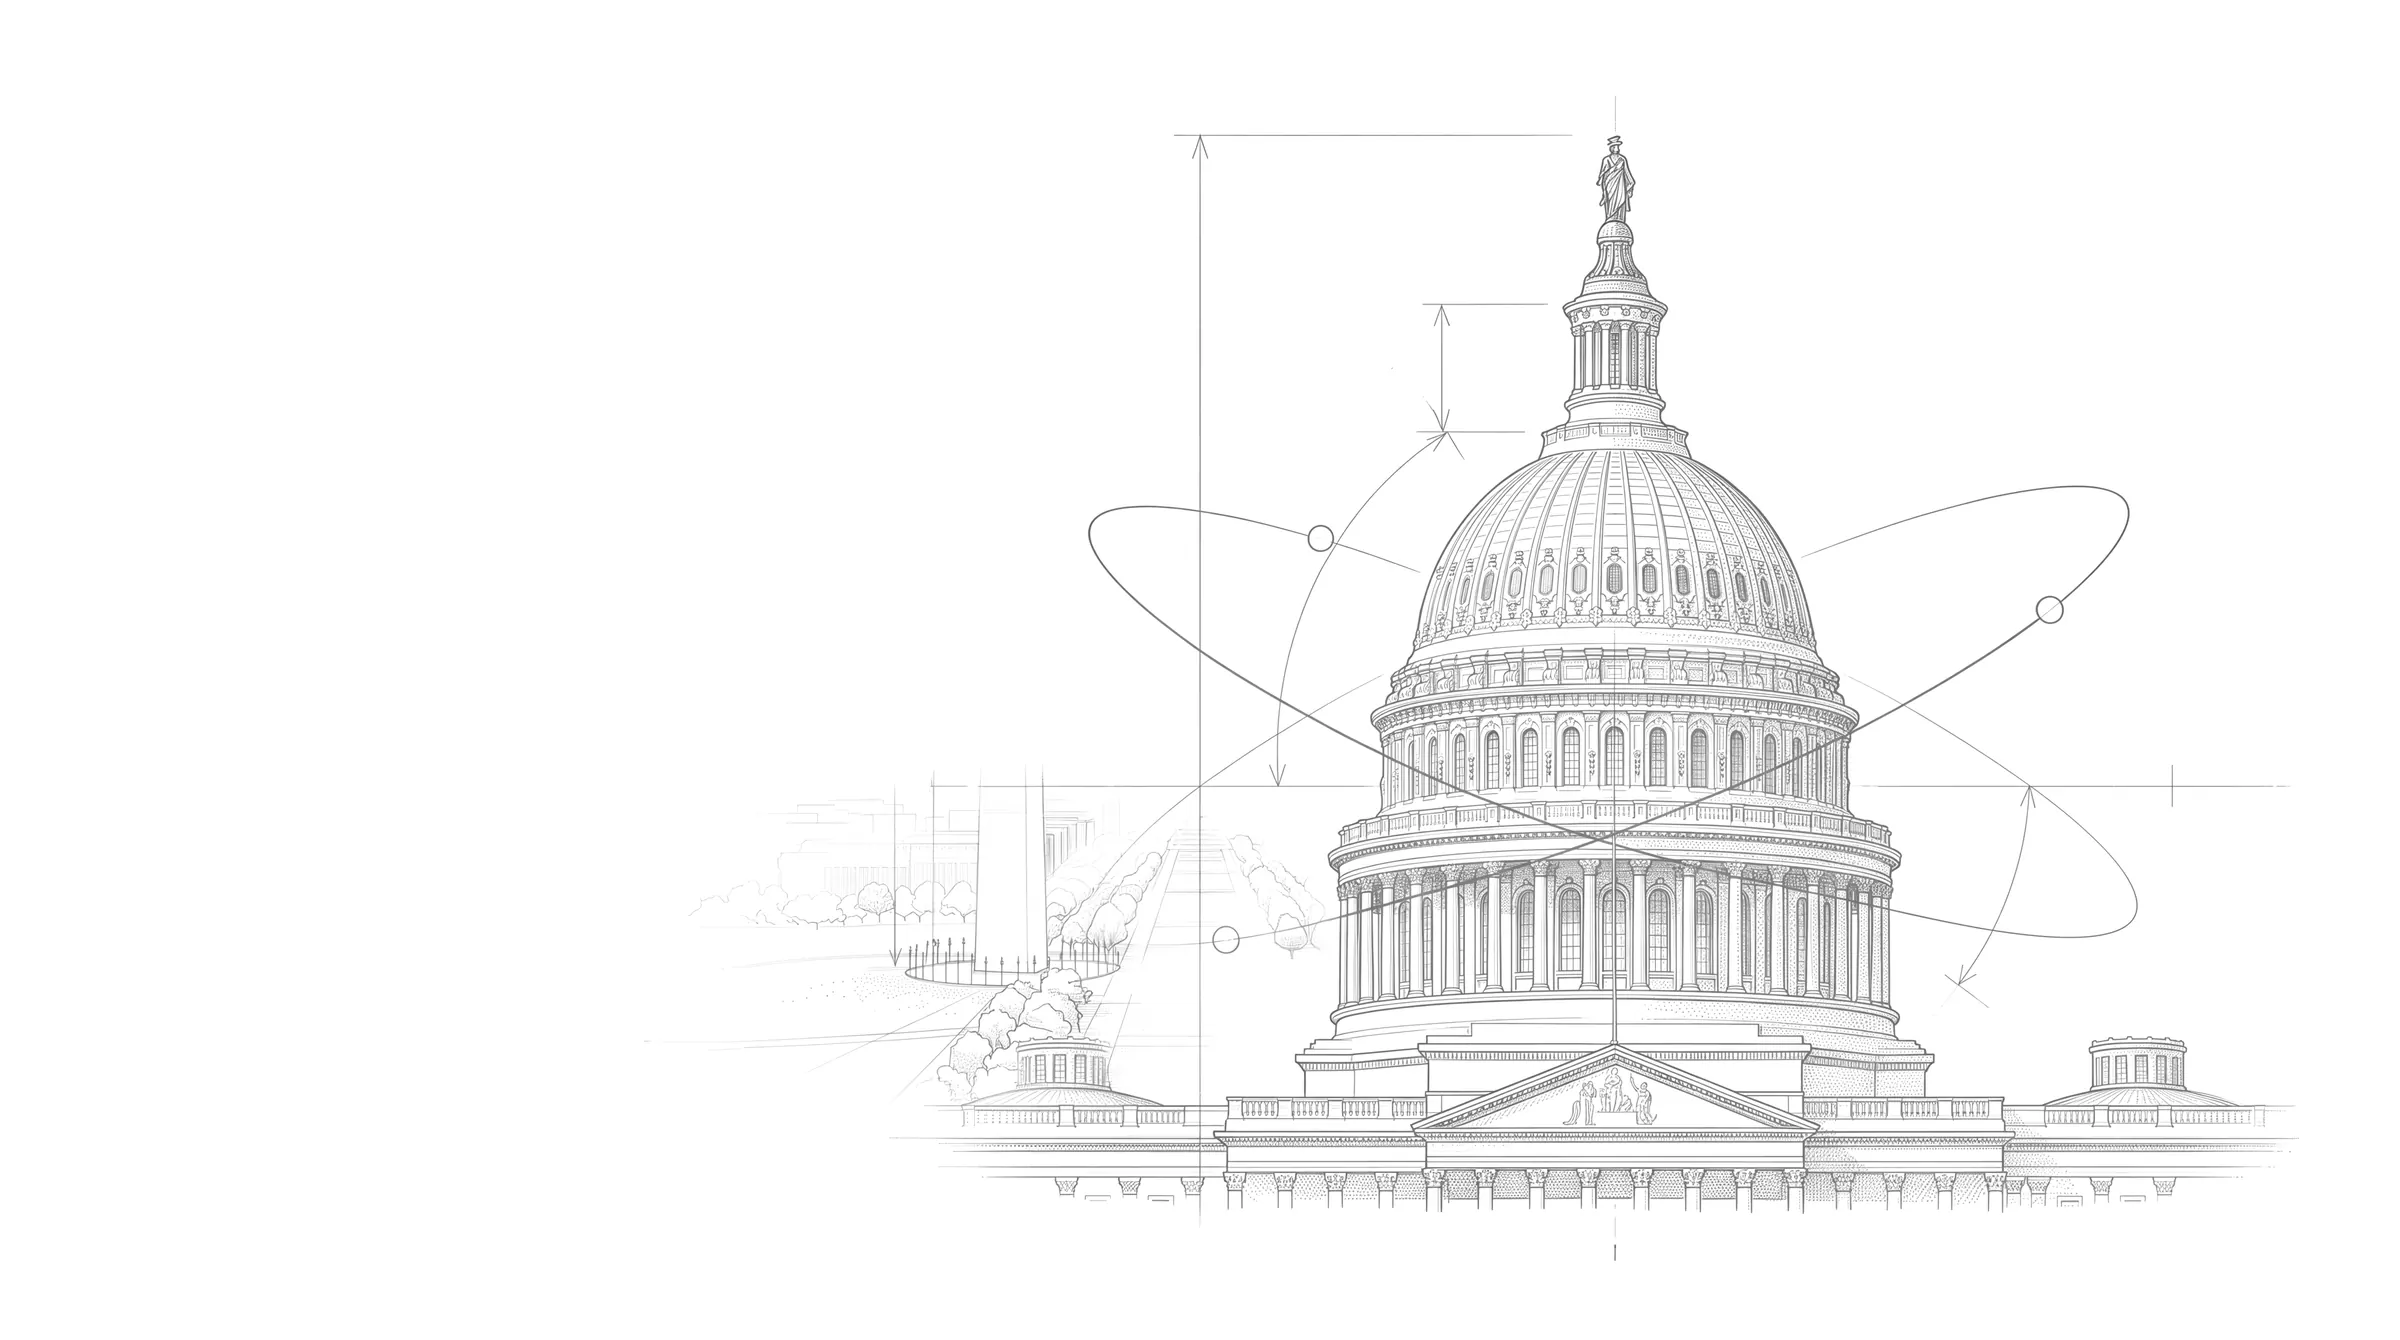
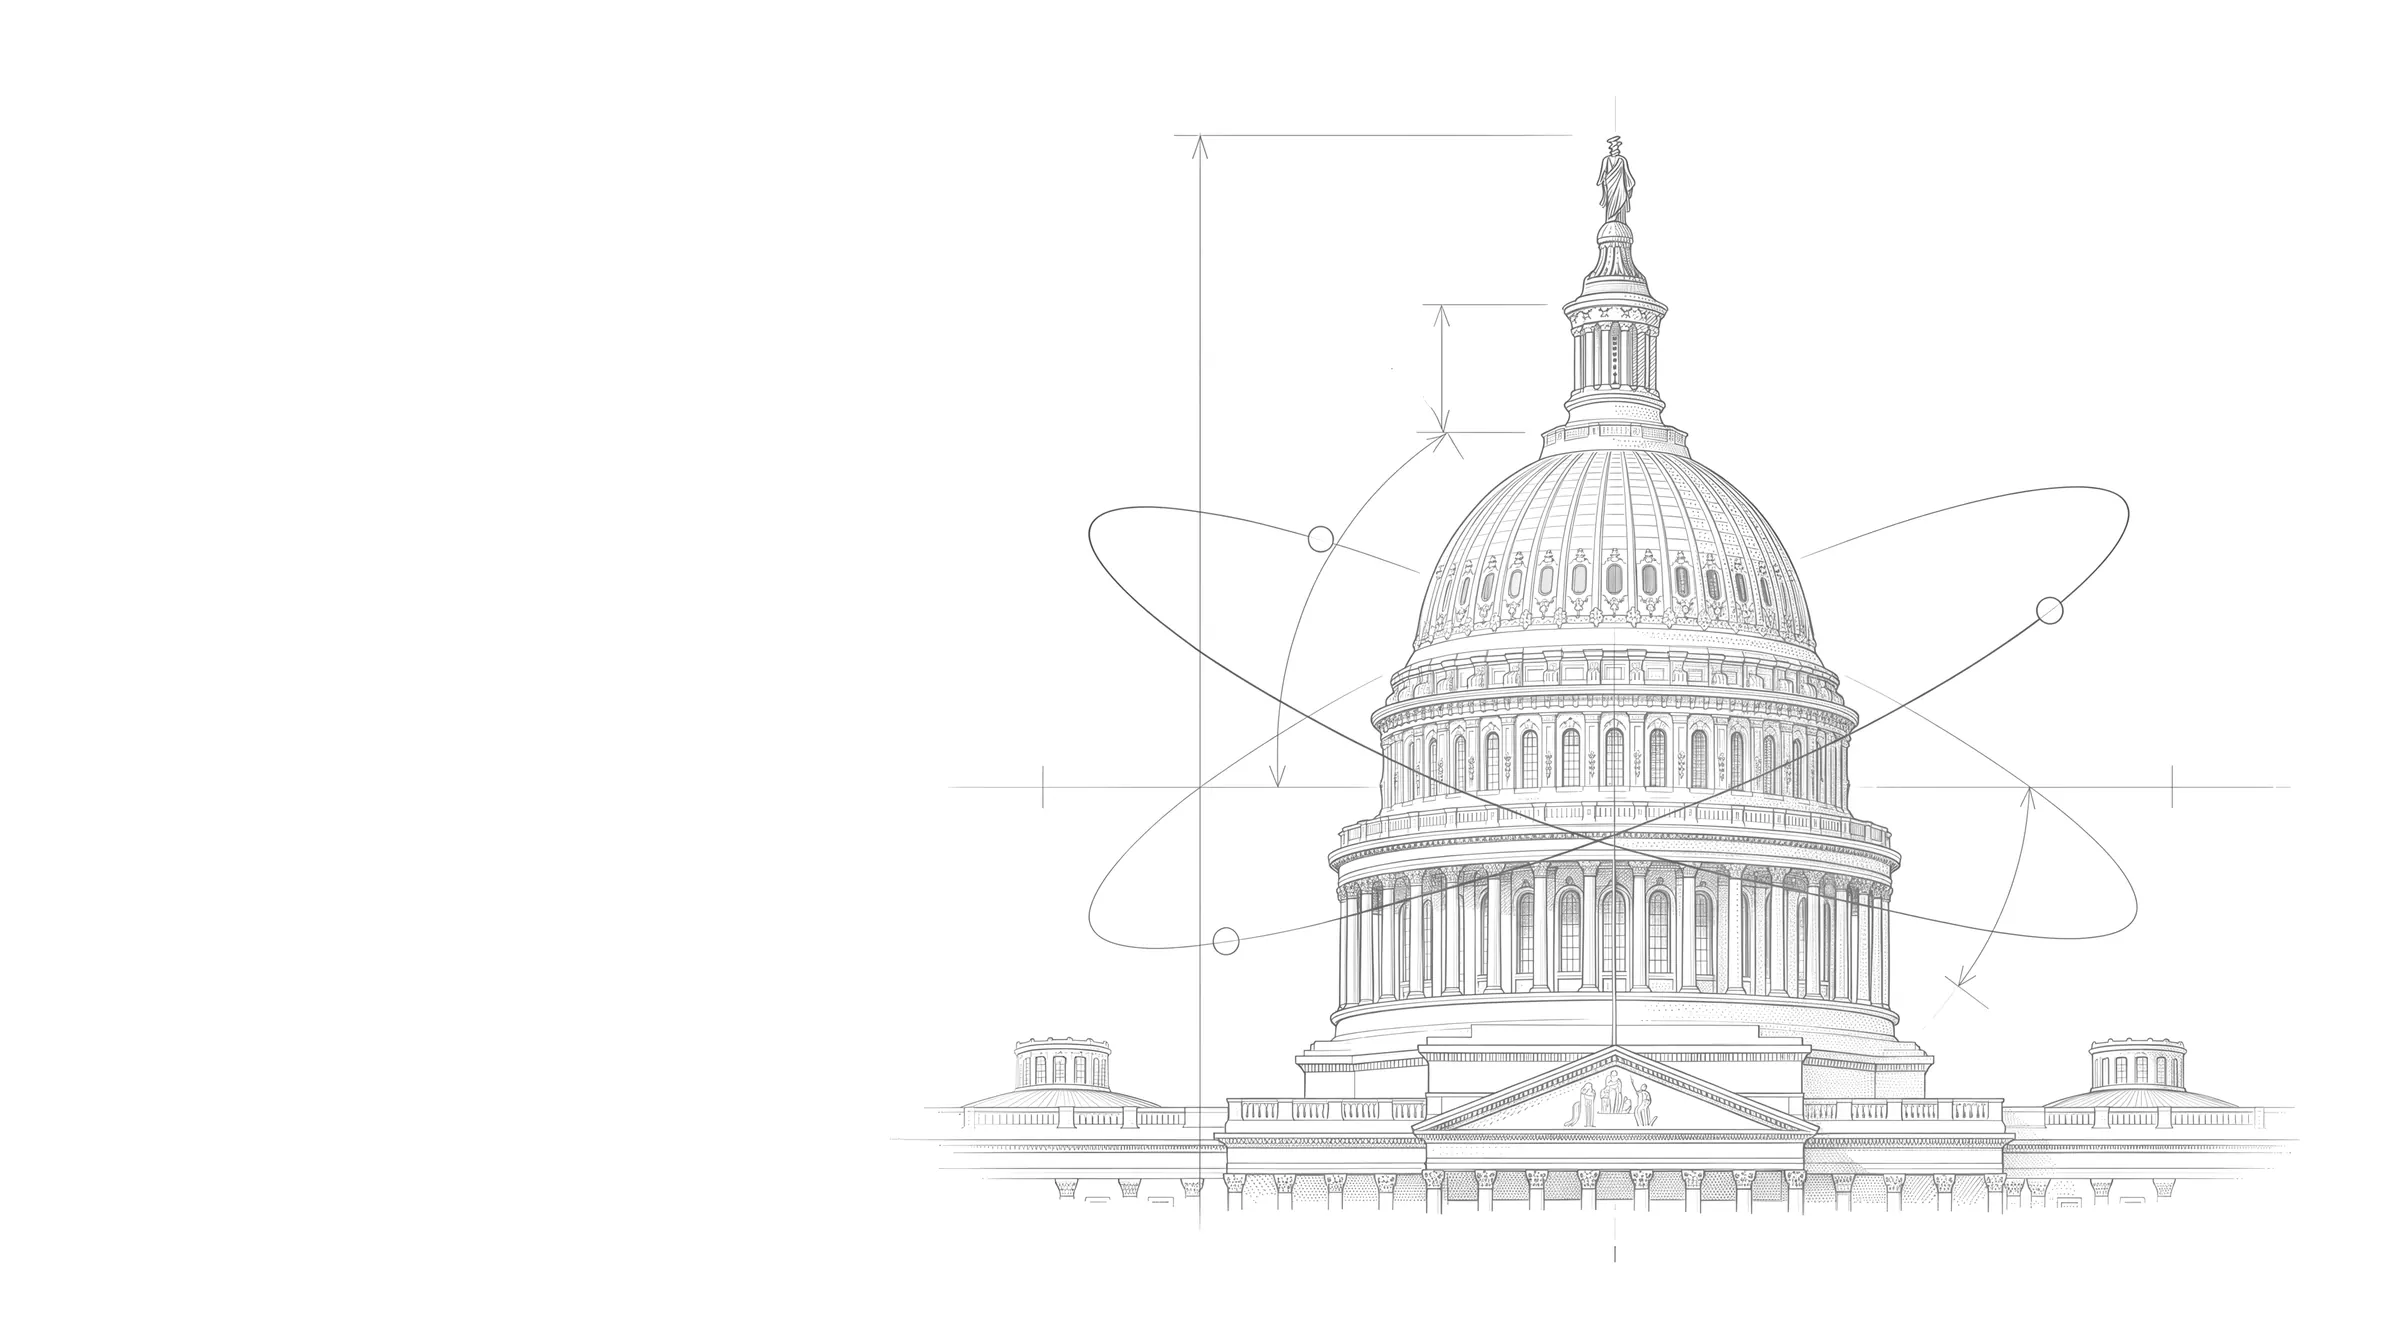
about-beta: Capitol-only hero, mission aligned to the dome, new story drawings
- Hero drawing edited (Higgsfield) to remove the half-drawn Monument and
  Mall sketch; the Capitol, its orbits and measurement lines are
  unchanged and still register with the draw-order map.
- Desktop: the mission block's top sits level with the statue's tip.
- Our Story: three new pen-and-ink drawings that match each chapter
  (students in conversation with the Capitol in the window; a shared
  worktable before the D.C. campuses; reading The Catalyst on the
  Mall), paper tone baked in so they sit seamlessly on the page.

Changed region(s): [[0.3438, 0.1224, 0.9375, 0.9179], [0.8438, 0.5813, 0.875, 0.6119], [0.4375, 0.6119, 0.4688, 0.6425]]

diff --git a/about-beta.html b/about-beta.html
@@ -26,8 +26,8 @@
     <link rel="preconnect" href="https://firestore.googleapis.com" crossorigin>
     <link href="https://fonts.googleapis.com/css2?family=Poppins:wght@400;500;600;700&family=Source+Serif+Pro:ital,wght@0,400;0,600;1,400;1,600&display=swap" rel="stylesheet">
 
-    <link rel="preload" as="image" href="/beta/about-dome/plate-s.webp?v=1" fetchpriority="high">
-    <link rel="preload" as="image" href="/beta/about-dome/map.webp?v=1" fetchpriority="high">
+    <link rel="preload" as="image" href="/beta/about-dome/plate-s.webp?v=2" fetchpriority="high">
+    <link rel="preload" as="image" href="/beta/about-dome/map.webp?v=2" fetchpriority="high">
 
     <link rel="stylesheet" href="/css/styles.css?v=20260925-review">
     <style>
@@ -150,8 +150,8 @@
          ============================================================ */
       .ab-mission { position: relative; padding: clamp(40px, 6vh, 80px) 0 clamp(90px, 12vh, 140px); }
       .ab-mission-in {
-        position: absolute; z-index: 2; left: var(--edge); top: 50%;
-        max-width: min(600px, 46vw); opacity: 0; transform: translateY(-40%); pointer-events: none;
+        position: absolute; z-index: 2; left: var(--edge); top: 20%;   /* JS sets top to the statue's tip */
+        max-width: min(600px, 46vw); opacity: 0; pointer-events: none;
         will-change: transform, opacity;
       }
       .ab-mission-in::before {
@@ -187,10 +187,10 @@
       .ab-frame figure { position: absolute; inset: 0; margin: 0; opacity: 0; transition: opacity 1s var(--ease-out); }
       .ab-frame figure.on { opacity: 1; }
       .ab-frame img {
-        width: 100%; height: 100%; object-fit: cover; mix-blend-mode: multiply;
+        width: 100%; height: 100%; object-fit: contain;   /* paper tone is baked into the image */
         transform: scale(var(--s, 1.06)); transition: transform 6s var(--ease-out);
-        -webkit-mask-image: radial-gradient(ellipse 78% 74% at 50% 50%, #000 58%, transparent 100%);
-                mask-image: radial-gradient(ellipse 78% 74% at 50% 50%, #000 58%, transparent 100%);
+        -webkit-mask-image: radial-gradient(ellipse 72% 72% at 50% 50%, #000 70%, transparent 100%);
+                mask-image: radial-gradient(ellipse 72% 72% at 50% 50%, #000 70%, transparent 100%);
       }
       .ab-frame figure.on img { --s: 1; }
       .ab-frame figcaption {
@@ -208,7 +208,7 @@
         .ab-frame { display: none; }
         .ab-acts { padding: 0; }
         .ab-act { min-height: 0; opacity: 1; padding: 0 0 64px; }
-        .ab-act .ab-act-img { display: block; width: 100%; aspect-ratio: 16 / 10; object-fit: cover; mix-blend-mode: multiply; margin-bottom: 18px;
+        .ab-act .ab-act-img { display: block; width: 100%; aspect-ratio: 1; object-fit: contain; margin-bottom: 18px;
           -webkit-mask-image: radial-gradient(ellipse 80% 76% at 50% 50%, #000 60%, transparent 100%); mask-image: radial-gradient(ellipse 80% 76% at 50% 50%, #000 60%, transparent 100%); }
       }
 
@@ -401,25 +401,25 @@
                 </div>
                 <div class="ab-story-grid">
                     <div class="ab-frame" aria-hidden="true">
-                        <figure class="on" data-act="0"><img src="/beta/library/plate-m.webp?v=4" alt="" style="object-position: 69% 50%" loading="lazy"><figcaption>The Library of Congress</figcaption></figure>
-                        <figure data-act="1"><img src="/beta/mall/plate-m.webp?v=4" alt="" style="object-position: 62% 60%" loading="lazy"><figcaption>The National Mall</figcaption></figure>
-                        <figure data-act="2"><img src="/beta/tidal/plate-m.webp?v=4" alt="" style="object-position: 64% 70%" loading="lazy"><figcaption>The Tidal Basin</figcaption></figure>
+                        <figure class="on" data-act="0"><img src="/beta/about-story-1-1200.webp?v=3" srcset="/beta/about-story-1-700.webp?v=3 700w, /beta/about-story-1-1200.webp?v=3 1200w" sizes="(max-width: 900px) 100vw, 560px" alt="" loading="lazy" decoding="async"></figure>
+                        <figure data-act="1"><img src="/beta/about-story-2-1200.webp?v=3" srcset="/beta/about-story-2-700.webp?v=3 700w, /beta/about-story-2-1200.webp?v=3 1200w" sizes="(max-width: 900px) 100vw, 560px" alt="" loading="lazy" decoding="async"></figure>
+                        <figure data-act="2"><img src="/beta/about-story-3-1200.webp?v=3" srcset="/beta/about-story-3-700.webp?v=3 700w, /beta/about-story-3-1200.webp?v=3 1200w" sizes="(max-width: 900px) 100vw, 560px" alt="" loading="lazy" decoding="async"></figure>
                     </div>
                     <div class="ab-acts">
                         <article class="ab-act on" data-act="0">
-                            <img class="ab-act-img" src="/beta/library/plate-m.webp?v=4" alt="" style="object-position: 69% 50%" loading="lazy">
+                            <img class="ab-act-img" src="/beta/about-story-1-700.webp?v=3" alt="The spark: students in conversation, the Capitol through the window" loading="lazy" decoding="async">
                             <span class="num">01</span>
                             <h3>The spark</h3>
                             <p>The Catalyst began as a conversation between a few students who felt that STEM research, happening all around them in one of the most scientifically active cities in the country, wasn&rsquo;t reaching the people who should care most about it. Washington is home to world-class universities, federal research agencies and a policy world where science matters. We wanted a publication that reflected that.</p>
                         </article>
                         <article class="ab-act" data-act="1">
-                            <img class="ab-act-img" src="/beta/mall/plate-m.webp?v=4" alt="" style="object-position: 62% 60%" loading="lazy">
+                            <img class="ab-act-img" src="/beta/about-story-2-700.webp?v=3" alt="The build: a shared worktable and the D.C. campuses our writers come from" loading="lazy" decoding="async">
                             <span class="num">02</span>
                             <h3>The build</h3>
                             <p>We started small: a handful of writers, no budget and a lot of shared Google Docs. Contributors from across the D.C. area joined, students from GW, Georgetown, Howard, Johns Hopkins and beyond, each bringing a different lens to the same goal. The magazine grew with the people in it more than from any master plan.</p>
                         </article>
                         <article class="ab-act" data-act="2">
-                            <img class="ab-act-img" src="/beta/tidal/plate-m.webp?v=4" alt="" style="object-position: 64% 70%" loading="lazy">
+                            <img class="ab-act-img" src="/beta/about-story-3-700.webp?v=3" alt="Today: reading The Catalyst on the National Mall" loading="lazy" decoding="async">
                             <span class="num">03</span>
                             <h3>Today</h3>
                             <p>The Catalyst is now a cross-institutional student magazine with a growing readership and a clear editorial identity. We&rsquo;re still student-run, still independent and still driven by the same conviction: good science writing can change how people think. We&rsquo;re glad you&rsquo;re here.</p>
@@ -519,6 +519,6 @@
     <script defer src="/js/data.js"></script>
     <!-- main.js holds the team roster (teamMembers / rosterGroups / alumniMembers) -->
     <script defer src="/js/main.js?v=20260925-review"></script>
-    <script defer src="/js/about-beta.js?v=2"></script>
+    <script defer src="/js/about-beta.js?v=3"></script>
 </body>
 </html>

diff --git a/js/about-beta.js b/js/about-beta.js
@@ -13,7 +13,7 @@
   var body = document.body;
   var REDUCED = window.matchMedia('(prefers-reduced-motion: reduce)').matches;
   var DPR = Math.min(window.devicePixelRatio || 1, 2);
-  var V = '1';
+  var V = '2';
   var clamp = function (v, a, b) { return Math.min(Math.max(v, a), b); };
   var map = function (v, a, b) { return clamp((v - a) / (b - a), 0, 1); };
   var lerp = function (a, b, t) { return a + (b - a) * t; };
@@ -215,7 +215,12 @@
         def.style.visibility = out >= 1 ? 'hidden' : '';
         var inn = ease(map(p, 0.47, 0.6));
         missionIn.style.opacity = String(inn);
-        missionIn.style.transform = (portrait() ? '' : 'translateY(-40%) ') + 'translate3d(0,' + ((1 - inn) * 70).toFixed(1) + 'px,0)';
+        if (!portrait()) {
+          // top of the mission block sits level with the tip of the statue
+          var c = dome.canvas, R = dome.rect(c.clientWidth, c.clientHeight, dome.sp);
+          missionIn.style.top = (R.y + DOME.tip * R.h).toFixed(1) + 'px';
+        } else missionIn.style.top = '';
+        missionIn.style.transform = 'translate3d(0,' + ((1 - inn) * 70).toFixed(1) + 'px,0)';
       }
       lightWords(p);
     }
